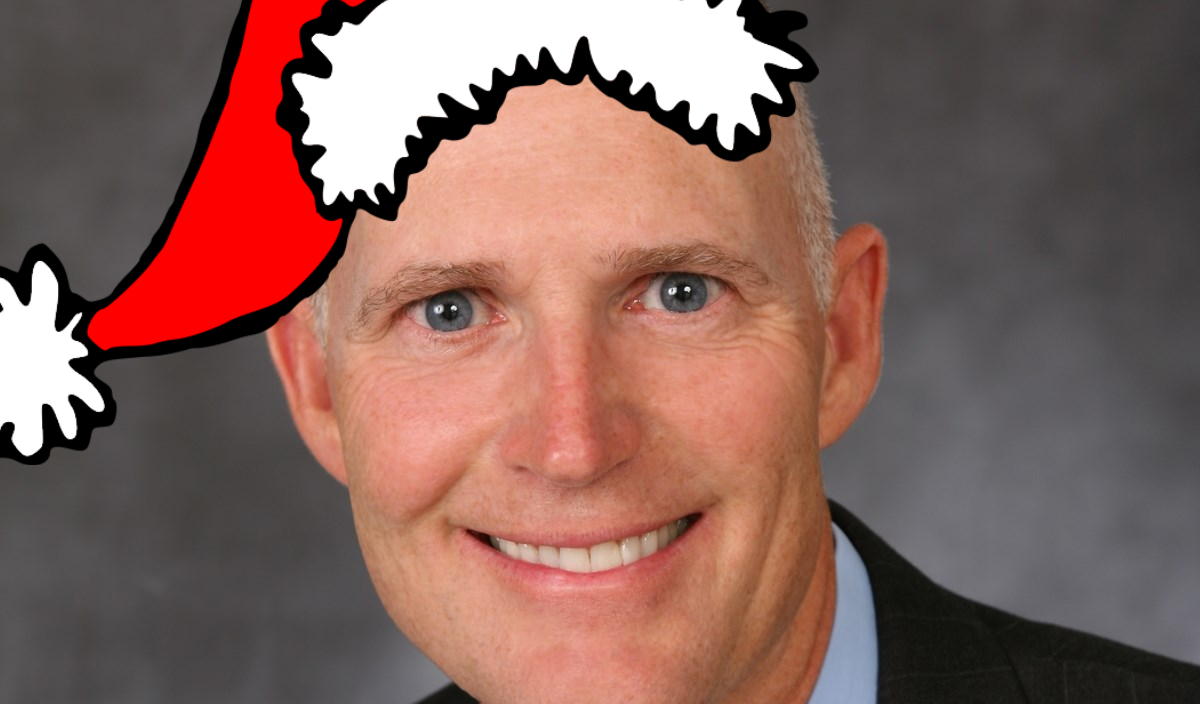
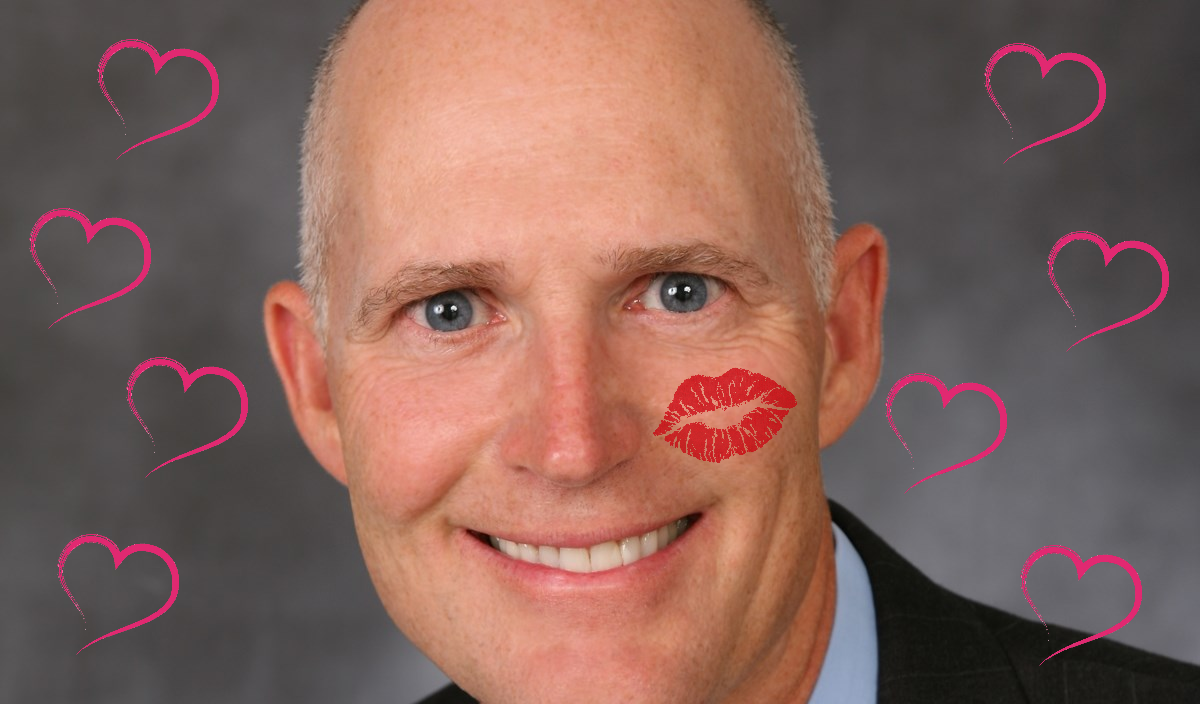
ValenRick's Day

diff --git a/core/src/com/xemplar/games/android/nerdshooter/screens/CompletedLevel.java b/core/src/com/xemplar/games/android/nerdshooter/screens/CompletedLevel.java
@@ -58,7 +58,7 @@ public class CompletedLevel implements Screen, InputProcessor {
     private Texture rickmas;
     
     public CompletedLevel(){
-    	rickmas = new Texture(Gdx.files.internal("rickmas.png"));
+    	rickmas = new Texture(Gdx.files.internal("ValenRick.png"));
         instance = this;
     }
     
